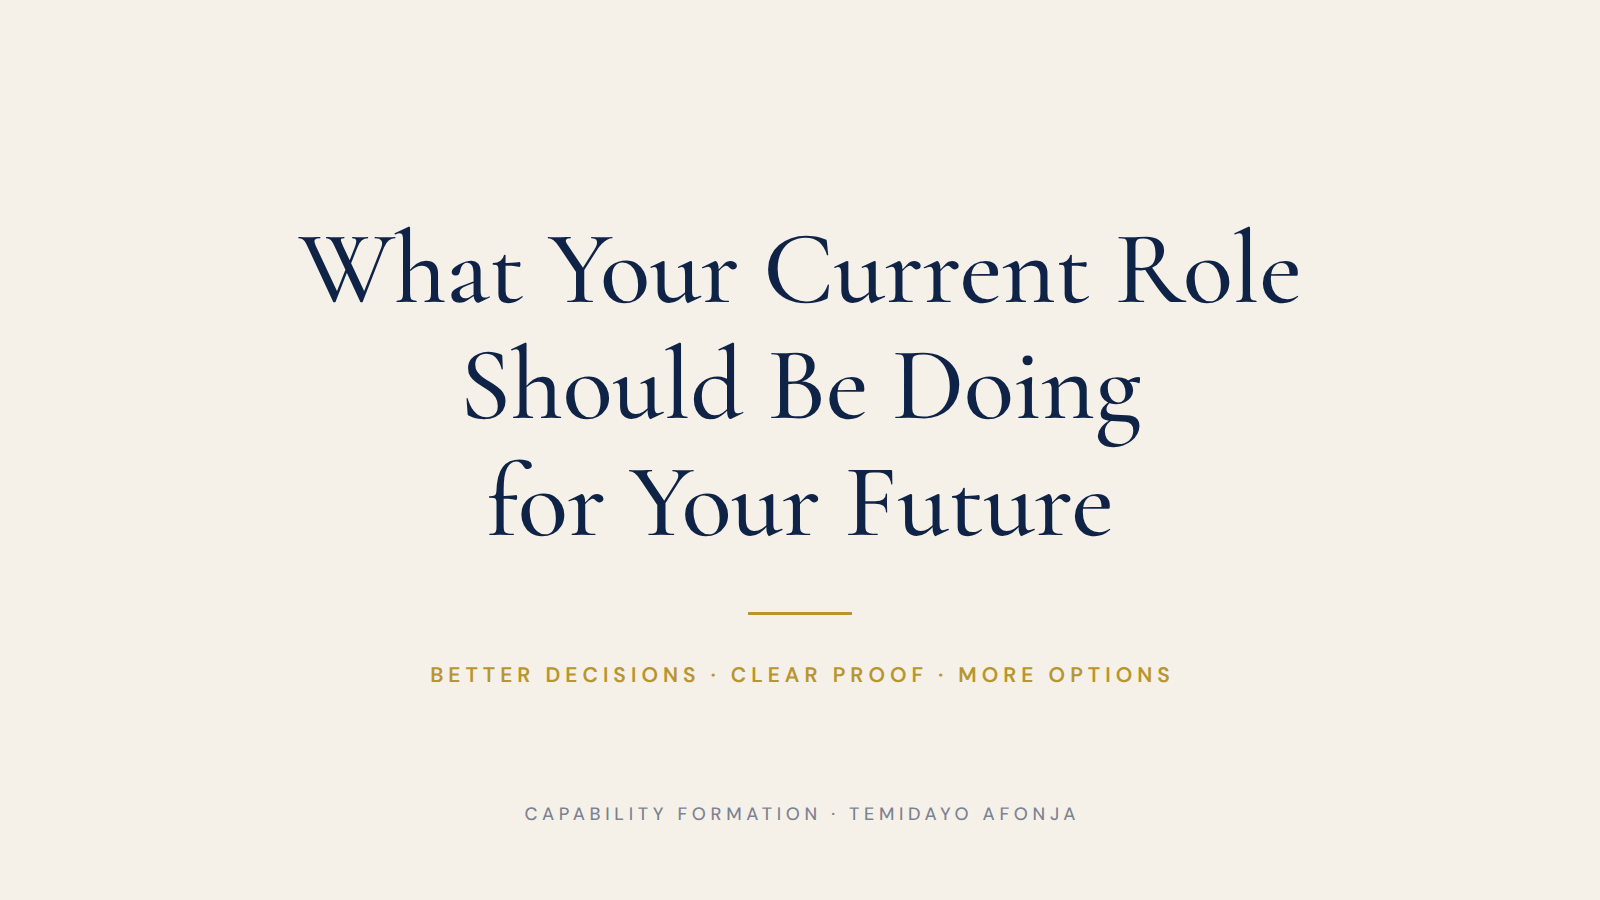
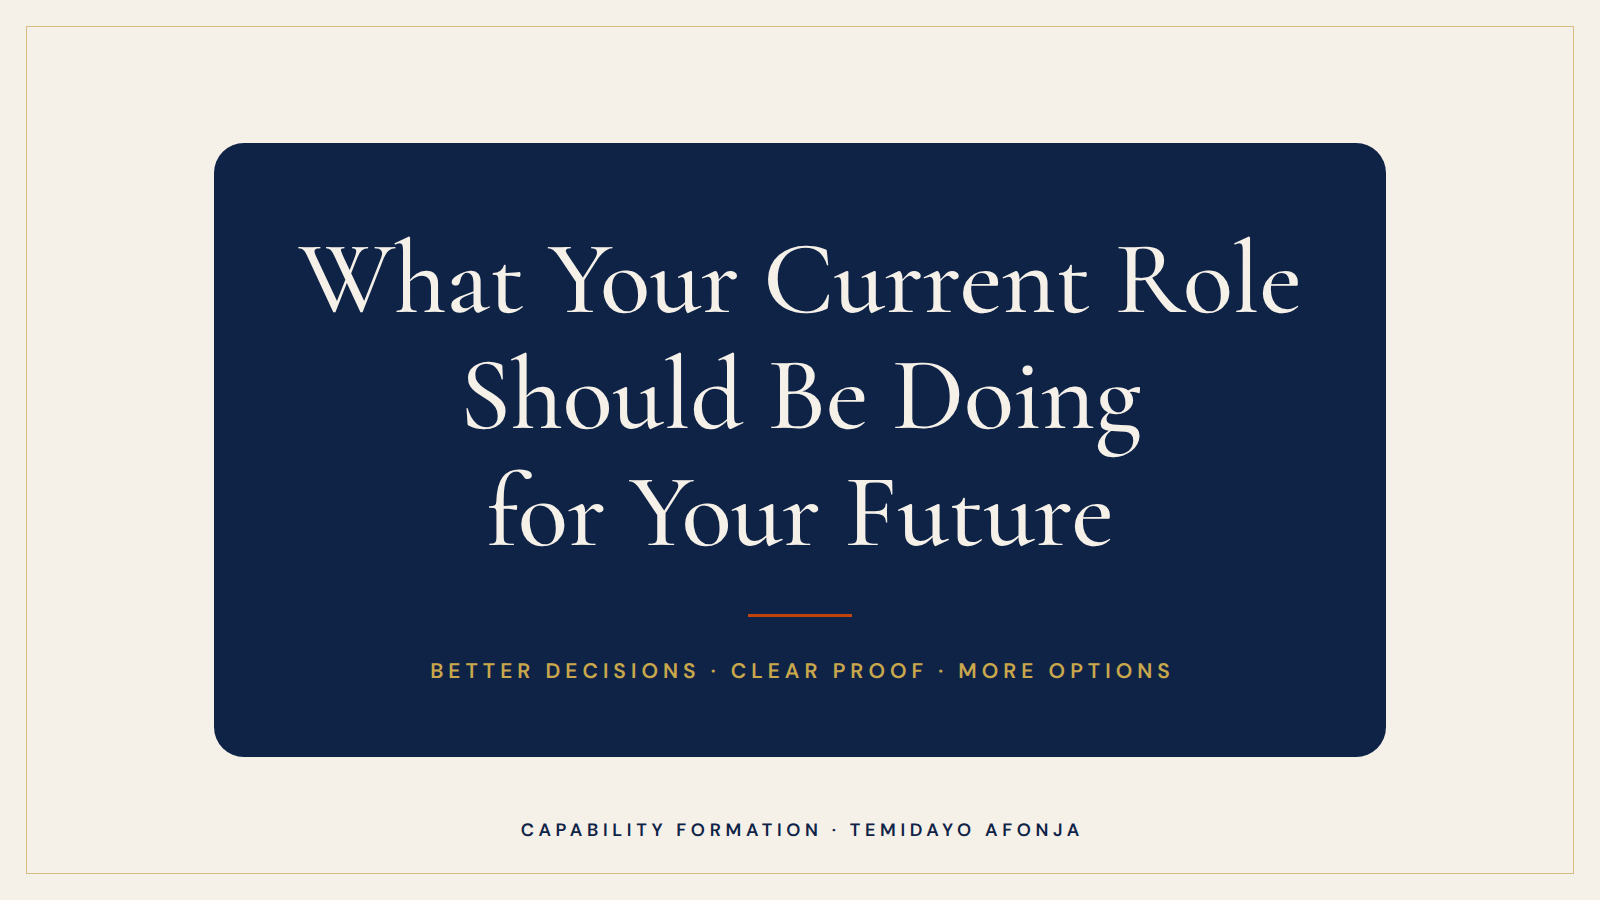
Restyle the essay visuals to the Capability Audit colour format
All three sheets now match the treatment used by the Capability Audit cards:
a cream field inside a thin gold hairline frame, content carried on filled
navy panels with rounded corners, cream serif type on the navy, gold small
capitals for labels, and rust for the short divider rules. The white card
panels are gone.

Rust is used only on the divider rules, which is where the real Career
Evidence Starter uses it. It is deliberately not a card fill on the 3 Ps: in
the Capability Audit grid the rust card marks the destination among four
states, and the essay says none of the three Ps outranks the others.

Copy, placement, anchors and the real artifact renders are unchanged, and the
gate still passes.

Claude-Session: https://claude.ai/code/session_01CYREDb8LZXEyjGSXhtygrV

diff --git a/substack-sep09-current-role-final-visuals/source/visuals.html b/substack-sep09-current-role-final-visuals/source/visuals.html
@@ -12,7 +12,9 @@
   :root {
     --navy: #0F2347;
     --cream: #F5F0E8;
-    --gold: #B8952E;   /* brand gold on light, the readable value on cream */
+    --gold: #B8952E;      /* brand gold on light, the readable value on cream */
+    --gold-dark: #C9A84C; /* brand gold on dark, for type inside a navy card */
+    --rust: #C1440E;      /* brand rust, the accent the real artifact uses */
     --white: #FFFFFF;
   }
   * { margin: 0; padding: 0; box-sizing: border-box; }
@@ -30,7 +32,14 @@
   #starter { width: 1600px; height: 1000px; }
 
   .serif { font-family: 'Cormorant Garamond', Georgia, serif; font-weight: 500; }
-  .rule { background: var(--gold); }
+  .rule { background: var(--rust); }
+
+  .frame {
+    position: absolute;
+    inset: 26px;
+    border: 1px solid rgb(from var(--gold) r g b / 0.55);
+    pointer-events: none;
+  }
 
   .tracked {
     font-weight: 600;
@@ -46,36 +55,45 @@
     padding: 96px 150px;
     text-align: center;
   }
-  #cover h1 { font-size: 104px; line-height: 1.12; letter-spacing: -0.004em; white-space: nowrap; }
+  #cover .panel {
+    background: var(--navy);
+    border-radius: 30px;
+    padding: 78px 84px 72px;
+    max-width: 1240px;   /* cream still reads as the field, not a margin */
+    text-align: center;
+  }
+  #cover h1 { font-size: 104px; line-height: 1.12; letter-spacing: -0.004em; white-space: nowrap; color: var(--cream); }
   #cover h1 span { display: block; }
-  #cover .rule { width: 104px; height: 3px; margin: 52px 0 46px; }
-  #cover .supporting { font-size: 21px; letter-spacing: 0.24em; text-indent: 0.24em; font-weight: 600; color: var(--gold); }
+  #cover .rule { width: 104px; height: 3px; margin: 44px auto 40px; }
+  #cover .supporting {
+    font-size: 21px; letter-spacing: 0.24em; text-indent: 0.24em;
+    font-weight: 600; color: var(--gold-dark);
+  }
   #cover .footer {
-    position: absolute; left: 0; right: 0; bottom: 74px;
+    position: absolute; left: 0; right: 0; bottom: 58px;
     text-align: center; font-size: 18px; letter-spacing: 0.26em; text-indent: 0.26em;
-    font-weight: 500; color: rgb(from var(--navy) r g b / 0.55);
+    font-weight: 600; color: var(--navy);
   }
 
   /* ---------------- 2. three Ps ---------------- */
   #threeps .inner { position: absolute; inset: 0; padding: 96px 110px 88px; display: flex; flex-direction: column; justify-content: center; }
   #threeps h2 { font-size: 64px; line-height: 1.16; letter-spacing: 0.012em; text-align: center; white-space: nowrap; }
-  #threeps .rule { width: 104px; height: 3px; margin: 40px auto 0; }
+  #threeps .rule { width: 104px; height: 3px; margin: 38px auto 0; }
   /* Cards size to their content: a stretched card leaves a dead white field
      under three short questions. */
   #threeps .cards { display: grid; grid-template-columns: repeat(3, 1fr); gap: 34px; margin-top: 72px; align-items: stretch; }
   #threeps .card {
-    background: var(--white);
-    border: 1px solid rgb(from var(--navy) r g b / 0.10);
-    border-top: 4px solid var(--gold);
+    background: var(--navy);
+    border-radius: 22px;
     padding: 54px 46px 62px;
     min-height: 360px;
     display: flex; flex-direction: column;
   }
-  #threeps .card .label { font-size: 23px; color: var(--navy); }
-  #threeps .card .q { margin-top: 32px; font-size: 45px; line-height: 1.28; }
+  #threeps .card .label { font-size: 23px; color: var(--gold-dark); }
+  #threeps .card .q { margin-top: 32px; font-size: 45px; line-height: 1.28; color: var(--cream); }
   #threeps .supporting {
     margin-top: 62px; text-align: center; font-size: 24px; line-height: 1.5;
-    color: rgb(from var(--navy) r g b / 0.62);
+    color: rgb(from var(--navy) r g b / 0.70);
   }
 
   /* ---------------- 3. starter artifact ---------------- */
@@ -92,22 +110,26 @@
   #starter .caption {
     position: absolute; left: 0; right: 0; bottom: 76px;
     text-align: center; font-size: 20px; letter-spacing: 0.26em; text-indent: 0.26em;
-    font-weight: 600; text-transform: uppercase; color: var(--gold);
+    font-weight: 600; text-transform: uppercase; color: var(--navy);
   }
 </style>
 </head>
 <body>
 
 <section class="sheet" id="cover">
+  <div class="frame"></div>
   <div class="inner">
-    <h1 class="serif" id="cover-title"></h1>
-    <div class="rule"></div>
-    <div class="supporting" id="cover-supporting"></div>
+    <div class="panel">
+      <h1 class="serif" id="cover-title"></h1>
+      <div class="rule"></div>
+      <div class="supporting" id="cover-supporting"></div>
+    </div>
   </div>
   <div class="footer" id="cover-footer"></div>
 </section>
 
 <section class="sheet" id="threeps">
+  <div class="frame"></div>
   <div class="inner">
     <h2 class="serif" id="ps-title"></h2>
     <div class="rule"></div>
@@ -117,6 +139,7 @@
 </section>
 
 <section class="sheet" id="starter">
+  <div class="frame"></div>
   <div class="inner">
     <div class="stage">
       <img class="behind" id="starter-behind" alt="">
@@ -179,7 +202,7 @@
 
   function fitCover() {
     const el = document.getElementById('cover-title');
-    const measure = 1180;
+    const measure = 1240 - 84 * 2 - 24;
     const textWidth = node => {
       const r = document.createRange();
       r.selectNodeContents(node);

diff --git a/substack-sep09-current-role-final-visuals/VISUAL_MANIFEST.md b/substack-sep09-current-role-final-visuals/VISUAL_MANIFEST.md
@@ -88,9 +88,18 @@ node substack-sep09-current-role-final-visuals/source/verify-visuals.mjs <essay-
 
 ## Design system
 
-Navy `#0F2347`, warm cream `#F5F0E8`, muted gold `#B8952E` on cream, white
-`#FFFFFF` for the card panels. Display type is Cormorant Garamond, labels and
-supporting copy are DM Sans. Both families are already self hosted in the
+Navy `#0F2347`, warm cream `#F5F0E8`, gold `#B8952E` on cream and `#C9A84C`
+inside a navy panel, rust `#C1440E` for the short divider rules. The three
+sheets follow the Capability Audit treatment: a cream field inside a thin gold
+hairline frame, with the content carried on filled navy panels with rounded
+corners, cream serif type on the navy and gold small capitals for labels.
+Display type is Cormorant Garamond, labels and supporting copy are DM Sans.
+
+Rust is used only for the divider rules, which is where the real Career
+Evidence Starter uses it. It is deliberately not used as a card fill on the
+3 Ps. In the Capability Audit grid the rust card marks the destination among
+four states, and the essay is explicit that none of the three Ps outranks the
+others. Both families are already self hosted in the
 repository, and both are the families the Career Evidence Starter itself uses,
 so the visuals and the real artifact read as one system.
 

diff --git a/substack-sep09-current-role-final-visuals/QA-REPORT.md b/substack-sep09-current-role-final-visuals/QA-REPORT.md
@@ -21,8 +21,12 @@ Automated gate: `source/verify-visuals.mjs`, currently passing.
    8.6px and 7.5px. The 3 Ps questions, the element that carries the meaning,
    render at 45px, which is 16.9px in that column. A 600px proof was reviewed.
 5. **Palette matches the system.** Navy `#0F2347`, cream `#F5F0E8`, gold
-   `#B8952E` on cream, white card panels. These are the values the real Career
-   Evidence Starter is drawn in, sampled from the artifact renders themselves.
+   `#B8952E` on cream and `#C9A84C` on navy, rust `#C1440E` for the divider
+   rules. Navy and cream were sampled from the real artifact renders. The rust
+   rule on the artifact page samples `#BD3700`, within rendering tolerance of the
+   brand value used here. The three sheets now follow the Capability Audit
+   treatment: gold hairline frame, filled navy panels with rounded corners,
+   cream serif on navy.
 6. **Three assets, two in body.** The cover is marked cover only in the
    manifest and is not placed in the body.
 7. **No older graphic reused.** The repository was searched for an existing
